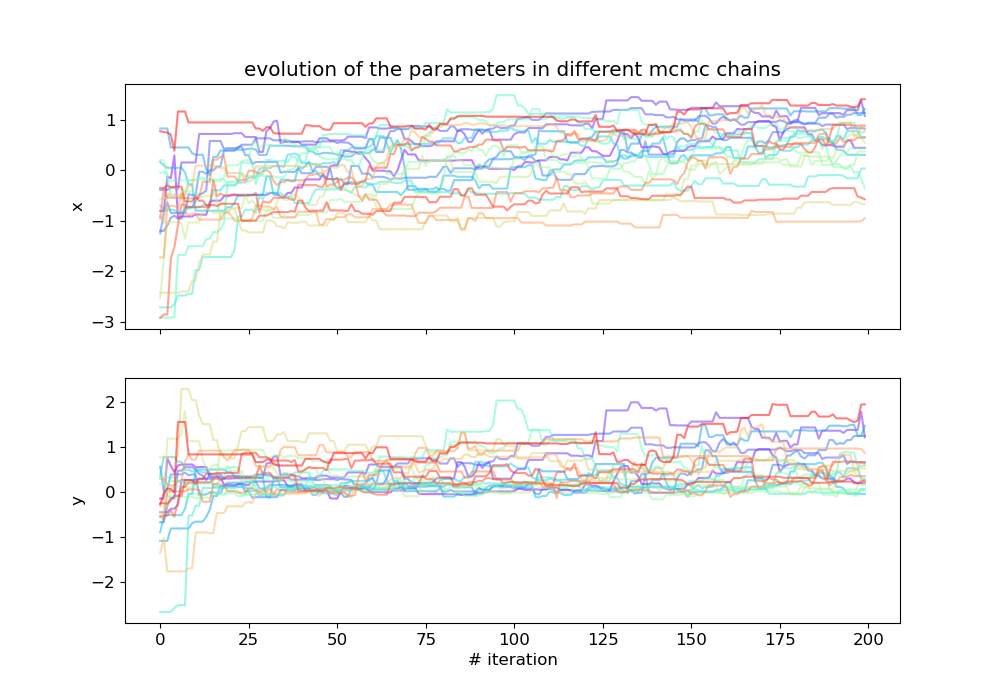
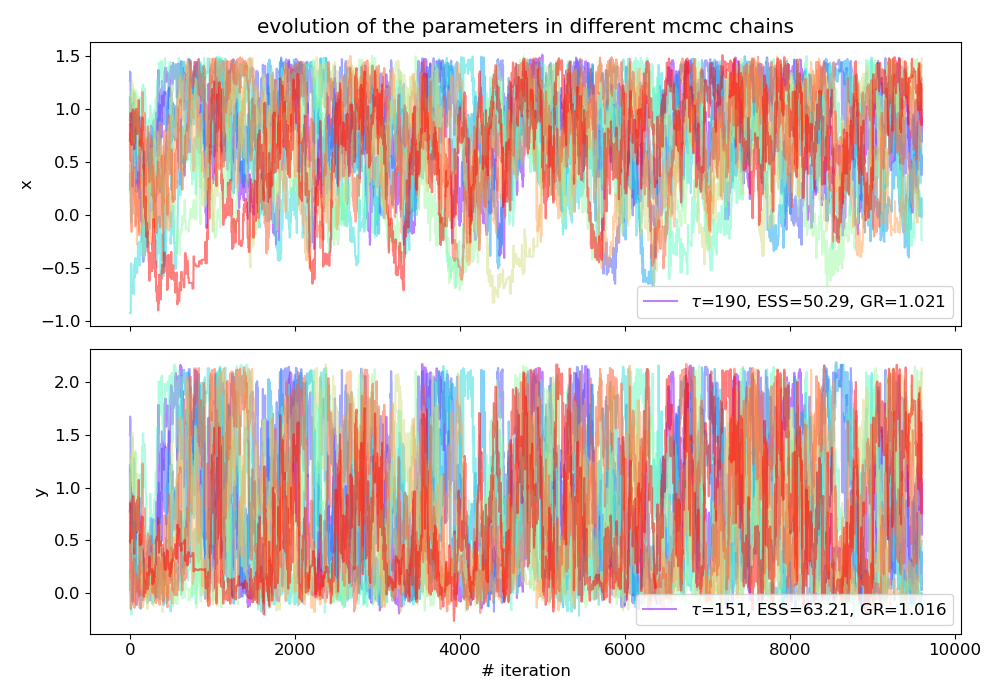
-add get_gelman_rubin_statistic to mcmc.py as a supplemantary diagonstic -enhance example_mcmc.py with more samples as well revised plots with diagnostics like ESS and GR.

diff --git a/examples/example_mcmc.py b/examples/example_mcmc.py
@@ -1,9 +1,10 @@
+import corner
 import matplotlib.pyplot as plt
 import numpy as np
 from matplotlib.pyplot import cm
 from scipy.optimize import rosen
 
-from slurmcmc.mcmc import slurm_mcmc
+from slurmcmc.mcmc import slurm_mcmc, get_gelman_rubin_statistic
 
 plt.close('all')
 plt.interactive(True)
@@ -43,50 +44,69 @@ def log_prob_with_constraint(x):
 
 
 num_params = 2
-num_walkers = 20
-num_iters = 200
-print('num of slurmpool calls should be', num_walkers / 2 * (num_iters + 1))
+num_walkers = 10
+num_iters = 10000
 
 # initial points chosen to satisfy constraint
 init_points = (np.array([[x0_constraint, y0_constraint] for _ in range(num_walkers)])
                + (r_constraint * (np.random.rand(num_walkers, num_params) - 0.5)))
+# init_points = (np.array([minima for _ in range(num_walkers)])
+#                + 0.5 * np.random.randn(num_walkers, num_params))
 
 # log_prob_fun = log_prob
 log_prob_fun = log_prob_with_constraint
 sampler = slurm_mcmc(log_prob_fun=log_prob_fun, init_points=init_points, num_iters=num_iters,
-                     cluster='local-map',
-                     )
+                     cluster='local-map', verbosity=0)
 
-# print('acceptance fractions:', sampler.acceptance_fraction)
 print("Mean acceptance fraction: {0:.3f}".format(np.mean(sampler.acceptance_fraction)))
 
 tau = sampler.get_autocorr_time(quiet=True)
-print("Mean autocorrelation time: {0:.3f} steps".format(np.mean(tau)))
+print("Autocorrelation time (tau) per paramter:", [np.round(t, 2) for t in tau])
 
-# burnin = int(np.max(tau))
-# thin = int(np.min(tau))
-burnin = 0
 thin = 1
+# burnin = 0
+burnin = int(2 * np.max(tau))
+
+if burnin > 0:
+    tau = sampler.get_autocorr_time(discard=burnin, thin=thin, quiet=True)
+    print("Post burn-in, autocorrelation time (tau) per parameter:", [np.round(t, 2) for t in tau])
+
 samples = sampler.get_chain(discard=burnin, thin=thin)
 samples_flat = sampler.get_chain(discard=burnin, thin=thin, flat=True)
 
-# plot mcmc chains
-fig, axes = plt.subplots(nrows=num_params, figsize=(10, 7), sharex=True, num=1)
+# Effective Sample Size (ESS)
+num_steps = samples.shape[0]
+ESS = num_steps / tau
+print("Effective Sample Size (ESS) per parameter:", [np.round(e, 2) for e in ESS])
+
+# Gelman-Rubin statistic
+GR_statistic = get_gelman_rubin_statistic(samples)
+print('Gelman-Rubin statistic per parameter:', [np.round(g, 3) for g in GR_statistic])
+
+# plot mcmc chains evolution
+fig, axes = plt.subplots(nrows=num_params, figsize=(10, 7), sharex=True)
 labels = ["x", "y"]
 color_list = cm.rainbow(np.linspace(0, 1, num_walkers))
 for i in range(num_params):
     ax = axes[i]
     for j in range(num_walkers):
-        ax.plot(samples[:, j, i], alpha=0.5, color=color_list[j])
+        if j == 0:  # add MCMC statistics information to the plots
+            label = '$\\tau$={0:d}, ESS={1:.2f}, GR={2:.3f}'.format(int(tau[i]), ESS[i], GR_statistic[i])
+        else:
+            label = None
+        ax.plot(samples[:, j, i], alpha=0.5, color=color_list[j], label=label)
     ax.set_ylabel(labels[i])
+    ax.legend(loc='lower right')
+
 axes[-1].set_xlabel('# iteration')
 axes[0].set_title('evolution of the parameters in different mcmc chains')
+plt.tight_layout()
 
 if save_plots:
     plt.savefig('example_mcmc_chains_progress')
 
 # loss_fun 2d plot
-plt.figure(2, figsize=(8, 7))
+plt.figure(figsize=(8, 7))
 x = np.linspace(param_bounds[0][0], param_bounds[0][1], 100)
 y = np.linspace(param_bounds[1][0], param_bounds[1][1], 100)
 X, Y = np.meshgrid(x, y)
@@ -103,9 +123,9 @@ plt.ylabel('y')
 plt.title('log probability function: rosenbrock')
 
 # plot points sampled during mcmc
-plt.scatter(sampler.pool.points_history[:, 0], sampler.pool.points_history[:, 1], c='k', marker='o', s=10, alpha=0.5)
+plt.scatter(sampler.pool.points_history[:, 0], sampler.pool.points_history[:, 1], c='k', marker='o', s=10, alpha=0.1)
 # plot points accepted during mcmc
-plt.scatter(samples_flat[:, 0], samples_flat[:, 1], c='r', marker='o', s=10, alpha=0.5)
+plt.scatter(samples_flat[:, 0], samples_flat[:, 1], c='r', marker='o', s=10, alpha=0.1)
 plt.tight_layout()
 
 # plot analytic minima point for reference
@@ -122,9 +142,7 @@ if save_plots:
     plt.savefig('example_mcmc_2d_visualization')
 
 # emcee corner plot
-import corner
-
-fig = plt.figure(num=3, figsize=(7, 7))
+fig = plt.figure(figsize=(7, 7))
 corner.corner(samples_flat, labels=labels, color='k', truths=minima, truth_color='r', fig=fig, labelpad=-0.1)
 plt.suptitle('mcmc parameters distribution')
 plt.tight_layout()

diff --git a/slurmcmc/mcmc.py b/slurmcmc/mcmc.py
@@ -77,3 +77,40 @@ def slurm_mcmc(log_prob_fun, init_points, num_iters=10, init_log_prob_fun_values
             sampler.pool = slurm_pool  # need to redefine the pool because pickling removes sampler.pool
 
     return sampler
+
+
+def get_gelman_rubin_statistic(chains):
+    """
+    Calculate the Gelman-Rubin statistic for MCMC chains.
+    Not really relevant for correlated chains as in the emcee algorithm, for more read:
+    https://emcee.readthedocs.io/en/stable/tutorials/autocorr/
+
+    Parameters:
+    chains: np.ndarray of shape (nwalkers, nsteps, ndim)
+        The MCMC samples from the emcee package.
+
+    Returns:
+    R_hat: np.ndarray of shape (ndim,)
+        The Gelman-Rubin statistic for each parameter.
+    """
+    nsteps, nwalkers, ndim = chains.shape
+
+    # Mean of each chain
+    chain_means = np.mean(chains, axis=0)  # shape (nwalkers, ndim)
+
+    # Variance of each chain
+    chain_variances = np.var(chains, axis=0, ddof=1)  # shape (nwalkers, ndim)
+
+    # Overall mean of chain variances
+    W = np.mean(chain_variances, axis=0)  # shape (ndim,)
+
+    # Between-chain variance (variance of the means of the chains, multiplied by an extra factor of nsteps)
+    B = nsteps * np.var(chain_means, axis=0, ddof=1)  # shape (ndim,)
+
+    # Estimate of the marginal posterior variance
+    var_hat = W * (nsteps - 1) / nsteps + B / nsteps
+
+    # calculate the potential scale reduction factor
+    R_hat = np.sqrt(var_hat / W)
+
+    return R_hat

diff --git a/README.md b/README.md
@@ -49,7 +49,7 @@ The parallel optimization algorithm used in this case is [Differential Evolution
 (other parallel optimization options are [Particle Swarm Optimization](https://en.wikipedia.org/wiki/Particle_swarm_optimization) via [``nevergrad``](https://github.com/facebookresearch/nevergrad) 
 or [Bayesian Optimization](https://en.wikipedia.org/wiki/Bayesian_optimization) via [``botorch``](https://github.com/pytorch/botorch)).
 
-Progression of the loss with the number of iterations:
+We pick 10 workers times 30 iterations. Progression of the loss with the number of iterations:
 ![example_optimization_loss_progress](examples/pics/example_optimization_loss_progress.png)
 
 2d visualization of the loss function, the circle constraint (white line), and the points approaching (dark to bright) the minima (marked by a star):
@@ -59,13 +59,24 @@ Progression of the loss with the number of iterations:
 
 This example's plots are generated using [example_mcmc.py](examples/example_mcmc.py).
 
-We choose the log-probability function as minus the 2d-rosenbrock function, with zero probability assigned outside of the constraint circle.
-The parallel MCMC algorithm via [``emcee``](https://github.com/dfm/emcee).
+We choose the log-probability function as minus the 2d-rosenbrock function, with zero probability assigned outside of 
+the constraint circle.
+The parallel ensemble MCMC algorithm is via [``emcee``](https://github.com/dfm/emcee).
 
-We pick the initial points to initiate the MCMC chains at random, but a for an expensive black-box query in higher dimension an optimization should be done first, and the initial points chosen around the minima.
+We pick the initial points to initiate the MCMC chains at random, but a for an expensive black-box query in higher 
+dimension an optimization should be done first, and the initial points chosen around the minima.
 
-Progress of the chains with iterations (without burn-in or thinning):
+We pick 10 workers times 10,000 iterations. 
+Progress of the chains with iterations (after some burn-in):
 ![example_mcmc_chains_progress](examples/pics/example_mcmc_chains_progress.png)
+
+The relevant diagnostic of the convergence of the MCMC is the Effective Sample Size (ESS), meaning the length of the 
+chain over the autocorrelation time τ (calculated using `emcee`'s `get_autocorr_time` function). The ESS is advised 
+in the [emcee docs](https://emcee.readthedocs.io/en/stable/tutorials/autocorr/) to be over 50 for convergence.
+The [Gelman-Rubin statistic](https://pymcmc.readthedocs.io/en/latest/modelchecking.html) is not relevant in this case 
+because the chains are inherently correlated in the algorithm, but it can be a supplamentary diagnostic. 
+All the mentioned metrics are shown per parameter in the legend of the figure above.
+
 
 2d visualization of the points visited by the algorithm (black) and the points accepted to the MCMC samples set (red):
 ![example_mcmc_2d_visualization](examples/pics/example_mcmc_2d_visualization.png)
